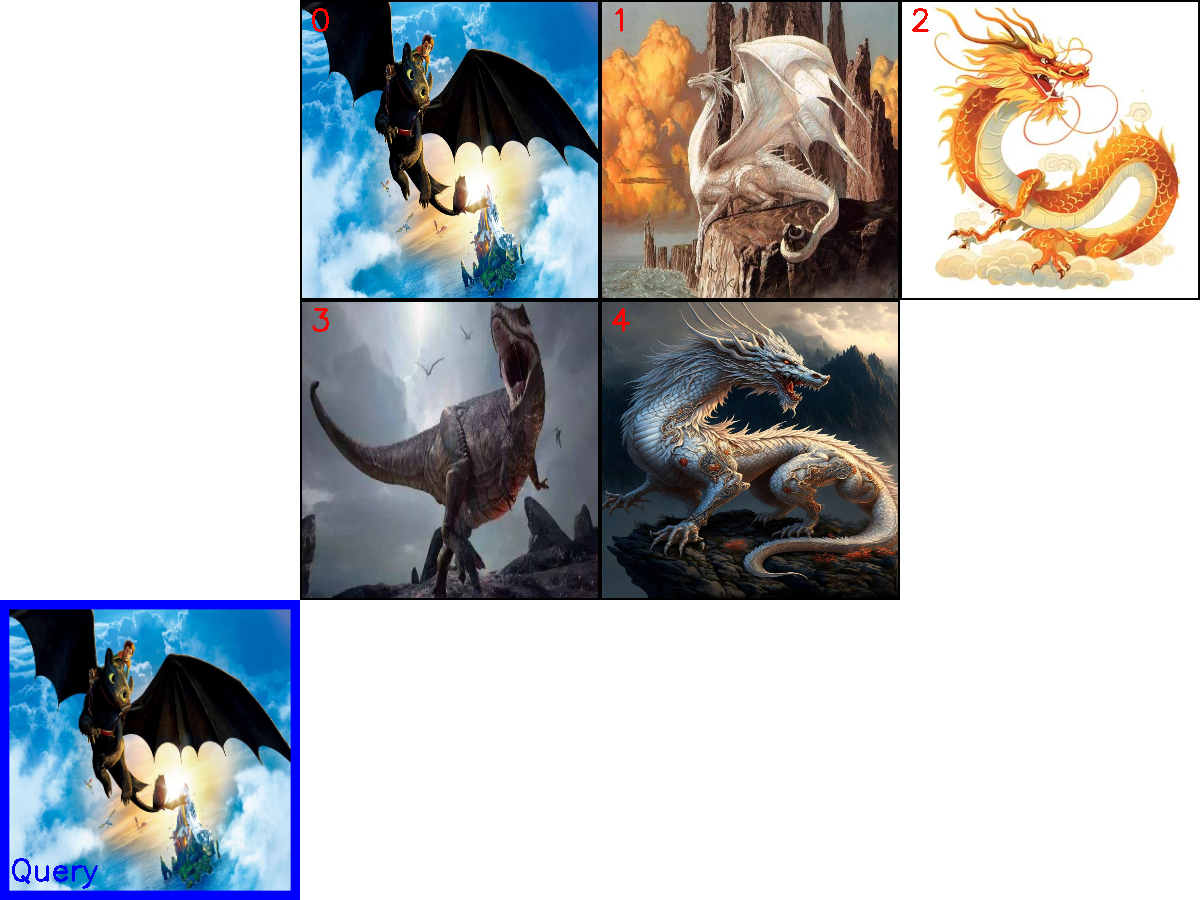
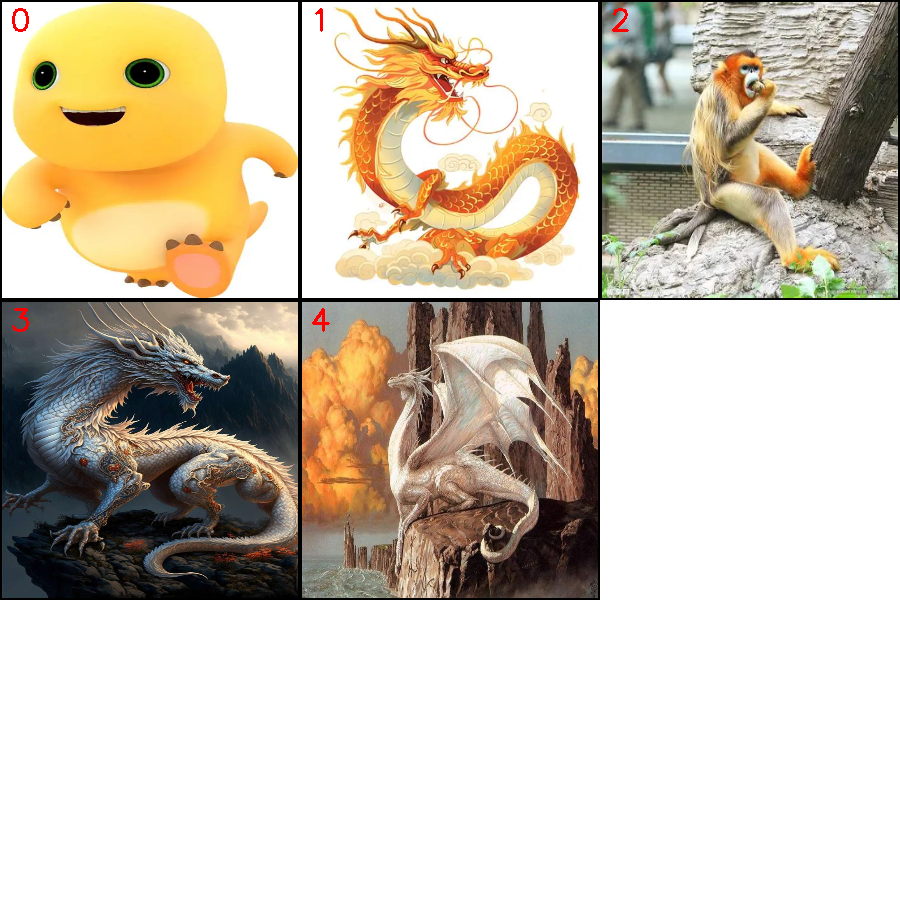
多模态检索 -> 只用文字检索

diff --git a/code/C3/study_04_multi_milvus.py b/code/C3/study_04_multi_milvus.py
@@ -23,10 +23,16 @@ class Encoder:
                 model_path : str):
         self.model = Visualized_BGE(model_name_bge = model_name, model_weight = model_path)
         self.model.eval() # 切换到评估模式
-
-    def encode_query(self, image_path: str, text : str) ->list[float]:
+    def encode_query(self, text : str, image_path : str | None = None) ->list[float]:
         with torch.no_grad(): # no_grad 是啥意思
-            mm_embeddings = self.model.encode(image = image_path, text = text)
+            if image_path and text:
+                mm_embeddings = self.model.encode(image = image_path, text = text)
+            elif image_path and not text:
+                mm_embeddings = self.model.encode(image = image_path)
+            elif text and not image_path:
+                mm_embeddings = self.model.encode(text = text)
+            else :
+                return None
         return mm_embeddings.tolist()[0] # 此处的tolist区数组首个元素 是否合理
     
     def encode_image(self, image_path : str):
@@ -35,8 +41,8 @@ class Encoder:
         return mm_embeddings.tolist()[0]     
 
 # 3 把作为查询图和检索图 二者的结果做汇总 拼成一个大图
-def visualize_results(query_image_path: str, 
-                      retrieved_images: list, 
+def visualize_results(retrieved_images: list, 
+                      query_image_path: str | None = None, 
                       img_height: int = 300, 
                       img_width: int = 300, 
                       row_count: int = 3) -> np.ndarray:
@@ -44,31 +50,59 @@ def visualize_results(query_image_path: str,
     panoramic_width = img_width * row_count
     panoramic_height = img_height * row_count
     panoramic_image = np.full((panoramic_height, panoramic_width, 3), 255, dtype=np.uint8)
-    query_display_area = np.full((panoramic_height, img_width, 3), 255, dtype=np.uint8)
 
-    # 处理查询图像
-    query_pil = Image.open(query_image_path).convert("RGB")
-    query_cv = np.array(query_pil)[:, :, ::-1]
-    resized_query = cv2.resize(query_cv, (img_width, img_height))
-    bordered_query = cv2.copyMakeBorder(resized_query, 10, 10, 10, 10, cv2.BORDER_CONSTANT, value=(255, 0, 0))
-    query_display_area[img_height * (row_count - 1):, :] = cv2.resize(bordered_query, (img_width, img_height))
-    cv2.putText(query_display_area, "Query", (10, panoramic_height - 20), cv2.FONT_HERSHEY_SIMPLEX, 1, (255, 0, 0), 2)
 
-    # 处理检索到的图像
+#######
+# 1. 先处理和拼接检索到的图像（右侧主画布）
     for i, img_path in enumerate(retrieved_images):
         row, col = i // row_count, i % row_count
+        # 防止传入的图片数量超过了画布格子总数 (row_count * row_count)
+        if row >= row_count:
+            break
+            
         start_row, start_col = row * img_height, col * img_width
         
-        retrieved_pil = Image.open(img_path).convert("RGB")
-        retrieved_cv = np.array(retrieved_pil)[:, :, ::-1]
-        resized_retrieved = cv2.resize(retrieved_cv, (img_width - 4, img_height - 4))
-        bordered_retrieved = cv2.copyMakeBorder(resized_retrieved, 2, 2, 2, 2, cv2.BORDER_CONSTANT, value=(0, 0, 0))
-        panoramic_image[start_row:start_row + img_height, start_col:start_col + img_width] = bordered_retrieved
-        
-        # 添加索引号
-        cv2.putText(panoramic_image, str(i), (start_col + 10, start_row + 30), cv2.FONT_HERSHEY_SIMPLEX, 1, (0, 0, 255), 2)
+        try:
+            retrieved_pil = Image.open(img_path).convert("RGB")
+            retrieved_cv = np.array(retrieved_pil)[:, :, ::-1]
+            resized_retrieved = cv2.resize(retrieved_cv, (img_width - 4, img_height - 4))
+            bordered_retrieved = cv2.copyMakeBorder(resized_retrieved, 2, 2, 2, 2, cv2.BORDER_CONSTANT, value=(0, 0, 0))
+            panoramic_image[start_row:start_row + img_height, start_col:start_col + img_width] = bordered_retrieved
+            
+            # 添加索引号
+            cv2.putText(panoramic_image, str(i), (start_col + 10, start_row + 30), cv2.FONT_HERSHEY_SIMPLEX, 1, (0, 0, 255), 2)
+        except Exception as e:
+            # 💡 增强健壮性：防止某张检索图片损坏导致整个程序崩溃
+            cv2.putText(panoramic_image, f"Error: {i}", (start_col + 10, start_row + img_height//2), cv2.FONT_HERSHEY_SIMPLEX, 0.5, (0, 0, 255), 1)
 
-    return np.hstack([query_display_area, panoramic_image])
+    # 2. 💡 核心修改：判断是否存在查询图像
+    if query_image_path is not None:
+        # 如果有 Query 图片，创建左侧展示区，并用 hstack 水平拼接
+        query_display_area = np.full((panoramic_height, img_width, 3), 255, dtype=np.uint8)
+        
+        try:
+            query_pil = Image.open(query_image_path).convert("RGB")
+            query_cv = np.array(query_pil)[:, :, ::-1]
+            
+            # 缩放并加上蓝色边框（注意：copyMakeBorder会增加像素，所以resize时先减去边框宽度）
+            resized_query = cv2.resize(query_cv, (img_width - 20, img_height - 20))
+            bordered_query = cv2.copyMakeBorder(resized_query, 10, 10, 10, 10, cv2.BORDER_CONSTANT, value=(255, 0, 0))
+            
+            # 将 Query 居中放入左侧展示区的最下方一格
+            start_r = img_height * (row_count - 1)
+            query_display_area[start_r:start_r + img_height, :] = bordered_query
+            cv2.putText(query_display_area, "Query", (10, panoramic_height - 20), cv2.FONT_HERSHEY_SIMPLEX, 1, (255, 0, 0), 2)
+        except Exception as e:
+            cv2.putText(query_display_area, "Query Load Err", (10, panoramic_height // 2), cv2.FONT_HERSHEY_SIMPLEX, 0.5, (0, 0, 255), 1)
+
+        # 返回 [Query区 + 检索结果全景图]
+        return np.hstack([query_display_area, panoramic_image])
+    
+    else:
+        # 💡 如果没有传入 Query 图片，直接返回检索结果全景图
+        return panoramic_image
+
+#######
 
 # 3. 初始化Encoder和Miluvs客户端
 print("--> 初始化Encoder和Mivlus客户端 ing")
@@ -136,9 +170,16 @@ print(f"milvus中集合{COLLECTION_NAME}的索引信息:{index_desc}")
 milvus_client.load_collection(collection_name = COLLECTION_NAME)
 
 # 执行多模态检索(同时传入文本&图片)
-query_text = "查询一条龙"
-query_image_path = image_list[0]
-query_vector = encoder.encode_query(text = query_text, image_path = query_image_path)
+
+#v1版本查询 文字+图片
+# query_text = "查询一个龙"
+# query_image_path = image_list[0]
+# query_vector = encoder.encode_query(text = query_text, image_path = query_image_path)
+
+# v2版本查询 通过文字查询图像
+query_text = "查询一只猴子"
+query_vector = encoder.encode_query(text = query_text)
+query_image_path = None
 
 search_result_list = milvus_client.search(
     collection_name = COLLECTION_NAME,
@@ -161,23 +202,20 @@ if not retrieved_images:
     print("没有检索到图像")   
 else:
     # 把查询的图像 和 检索召回的图像合成一个
-    visualize_result = visualize_results(query_image_path = query_image_path, retrieved_images = retrieved_images)
+    visualize_result = visualize_results(retrieved_images = retrieved_images , query_image_path = query_image_path)
     # 定义输出结果
     combined_image_path = os.path.join(DATA_DIR, "search_result.png")
     cv2.imwrite(combined_image_path, visualize_result)
     print(f"结果图像已保存到: {combined_image_path}")
-    Image.open(combined_image_path).show()
+    Image.open(combined_image_path).show() # 获取结果 调用拼图方法
+
     
-
-
+# clear释放内存 删除集合
 milvus_client.release_collection(collection_name=COLLECTION_NAME)
 print(f"已从内存中释放 Collection: '{COLLECTION_NAME}'")
 milvus_client.drop_collection(COLLECTION_NAME)
 print(f"已删除 Collection: '{COLLECTION_NAME}'")
 
-# 获取结果 调用拼图方法
-
-# clear释放内存 删除集合
 
 
 
@@ -185,87 +223,3 @@ print(f"已删除 Collection: '{COLLECTION_NAME}'")
 
 
 
-
-
-
-
-
-# fields = [
-#     FieldSchema(name="id", dtype=DataType.INT64, is_primary=True, auto_id=True),
-#     FieldSchema(name="vector", dtype=DataType.FLOAT_VECTOR, dim=dim),
-#     FieldSchema(name="image_path", dtype=DataType.VARCHAR, max_length=512),
-# ]
-
-# # 创建集合 Schema
-# schema = CollectionSchema(fields, description="多模态图文检索")
-# print("Schema 结构:")
-# print(schema)
-
-# # 创建集合
-# milvus_client.create_collection(collection_name=COLLECTION_NAME, schema=schema)
-# print(f"成功创建 Collection: '{COLLECTION_NAME}'")
-# print("Collection 结构:")
-# print(milvus_client.describe_collection(collection_name=COLLECTION_NAME))
-
-# # 5. 准备并插入数据
-# print(f"\n--> 正在向 '{COLLECTION_NAME}' 插入数据")
-# data_to_insert = []
-# for image_path in tqdm(image_list, desc="生成图像嵌入"):
-#     vector = encoder.encode_image(image_path)
-#     data_to_insert.append({"vector": vector, "image_path": image_path})
-
-# if data_to_insert:
-#     result = milvus_client.insert(collection_name=COLLECTION_NAME, data=data_to_insert)
-#     print(f"成功插入 {result['insert_count']} 条数据。")
-
-# # 6. 创建索引
-# print(f"\n--> 正在为 '{COLLECTION_NAME}' 创建索引")
-# index_params = milvus_client.prepare_index_params()
-# index_params.add_index(
-#     field_name="vector",
-#     index_type="HNSW",
-#     metric_type="COSINE",
-#     params={"M": 16, "efConstruction": 256}
-# )
-# milvus_client.create_index(collection_name=COLLECTION_NAME, index_params=index_params)
-# print("成功为向量字段创建 HNSW 索引。")
-# print("索引详情:")
-# print(milvus_client.describe_index(collection_name=COLLECTION_NAME, index_name="vector"))
-# milvus_client.load_collection(collection_name=COLLECTION_NAME)
-# print("已加载 Collection 到内存中。")
-
-# # 7. 执行多模态检索
-# print(f"\n--> 正在 '{COLLECTION_NAME}' 中执行检索")
-# query_image_path = os.path.join(DATA_DIR, "dragon", "query.png")
-# query_text = "一条龙"
-# query_vector = encoder.encode_query(image_path=query_image_path, text=query_text)
-
-# search_results = milvus_client.search(
-#     collection_name=COLLECTION_NAME,
-#     data=[query_vector],
-#     output_fields=["image_path"],
-#     limit=5,
-#     search_params={"metric_type": "COSINE", "params": {"ef": 128}}
-# )[0]
-
-# retrieved_images = []
-# print("检索结果:")
-# for i, hit in enumerate(search_results):
-#     print(f"  Top {i+1}: ID={hit['id']}, 距离={hit['distance']:.4f}, 路径='{hit['entity']['image_path']}'")
-#     retrieved_images.append(hit['entity']['image_path'])
-
-# # 8. 可视化与清理
-# print(f"\n--> 正在可视化结果并清理资源")
-# if not retrieved_images:
-#     print("没有检索到任何图像。")
-# else:
-#     panoramic_image = visualize_results(query_image_path, retrieved_images)
-#     combined_image_path = os.path.join(DATA_DIR, "search_result.png")
-#     cv2.imwrite(combined_image_path, panoramic_image)
-#     print(f"结果图像已保存到: {combined_image_path}")
-#     Image.open(combined_image_path).show()
-
-# milvus_client.release_collection(collection_name=COLLECTION_NAME)
-# print(f"已从内存中释放 Collection: '{COLLECTION_NAME}'")
-# milvus_client.drop_collection(COLLECTION_NAME)
-# print(f"已删除 Collection: '{COLLECTION_NAME}'")
